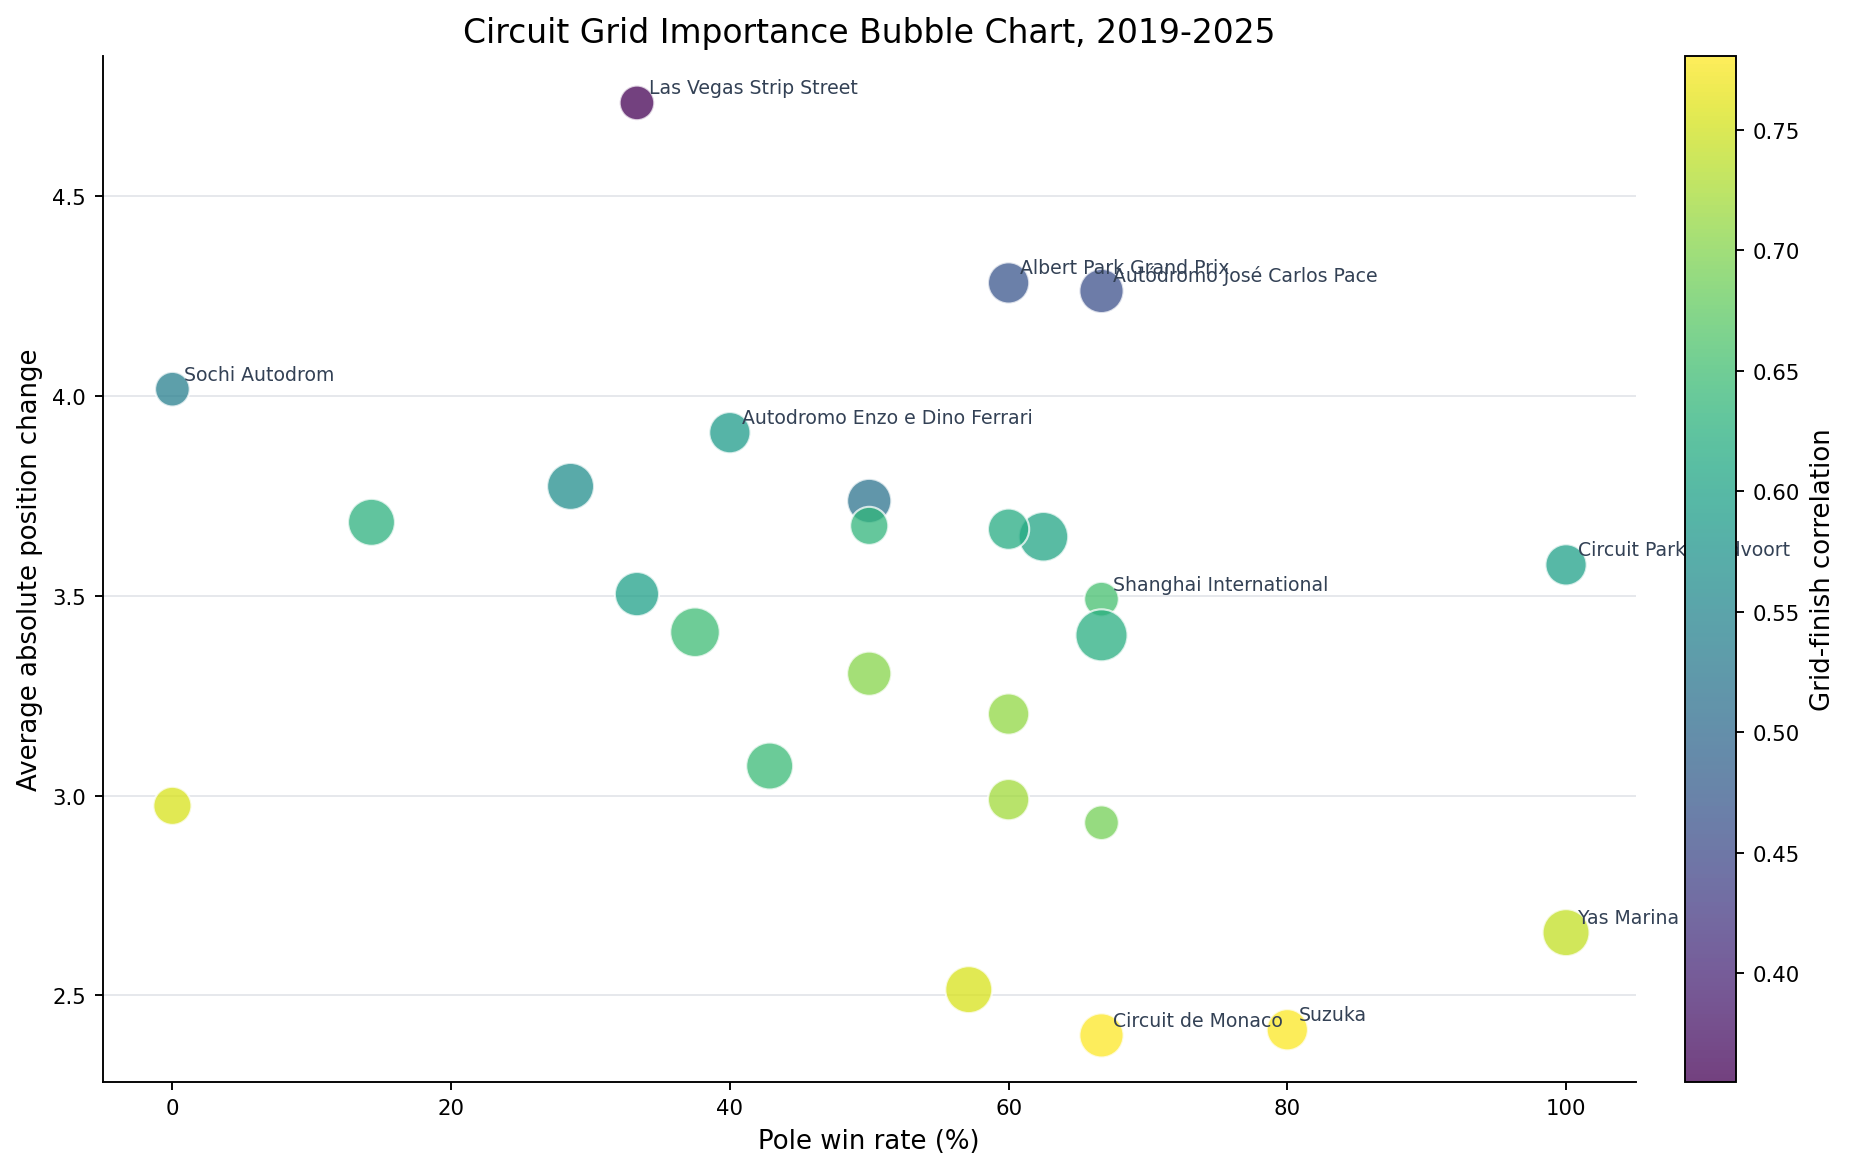
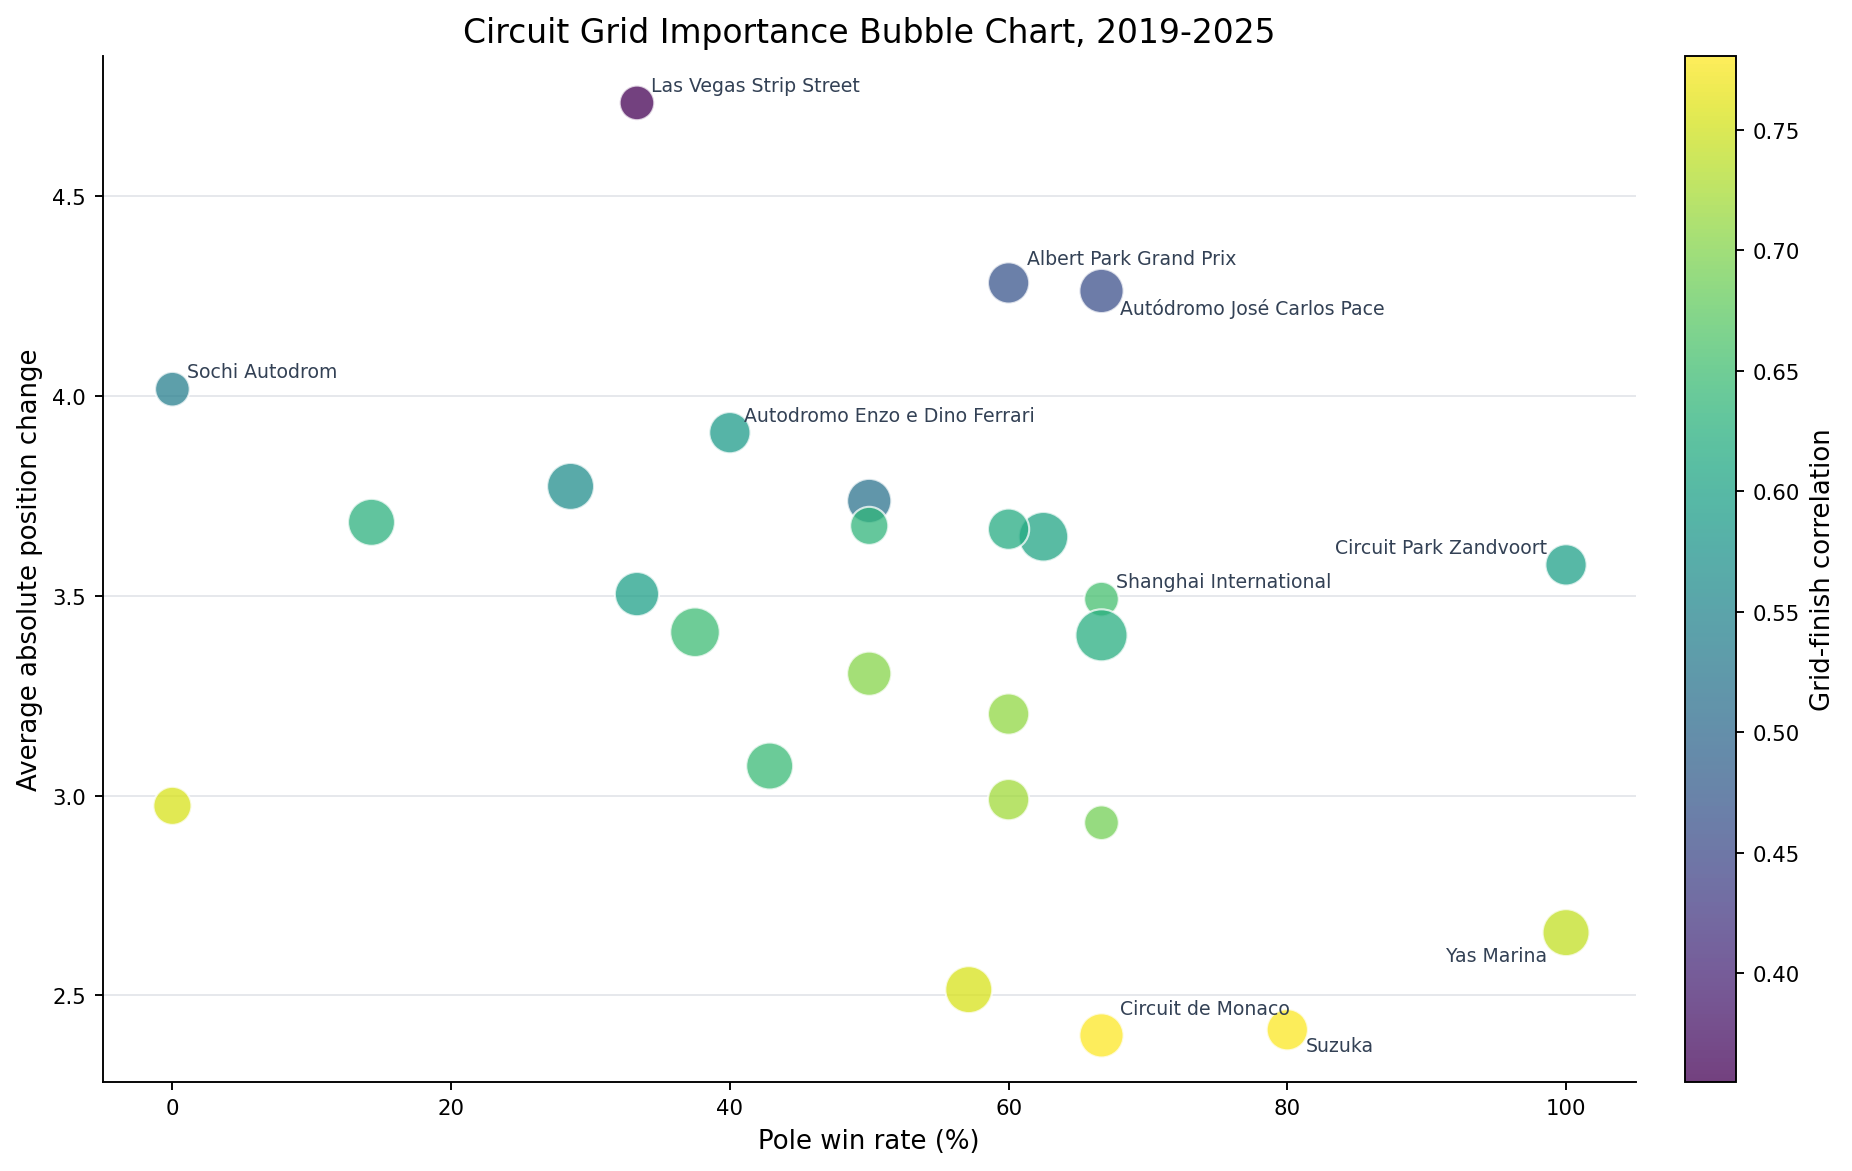
Improve figure label layout

diff --git a/visualize_f1_analysis.py b/visualize_f1_analysis.py
@@ -1328,18 +1328,32 @@ def plot_circuit_grid_importance_bubble(manifest, modern_rows):
 
     labeled = sorted(rows, key=lambda row: row["pole_win_rate"], reverse=True)[:5]
     labeled += sorted(rows, key=lambda row: row["avg_abs_position_change"], reverse=True)[:5]
+    circuit_label_offsets = {
+        "albert_park": (8, 8),
+        "interlagos": (8, -10),
+        "suzuka": (8, -9),
+        "monaco": (8, 9),
+        "yas_marina": (8, -12),
+    }
     seen = set()
     for row in labeled:
         if row["circuit_id"] in seen:
             continue
         seen.add(row["circuit_id"])
+        x_position = row["pole_win_rate"] * 100
+        label_offset = circuit_label_offsets.get(row["circuit_id"], (6, 5))
+        horizontal_alignment = "left"
+        if x_position >= 95:
+            label_offset = (-8, label_offset[1])
+            horizontal_alignment = "right"
         ax.annotate(
             row["circuit_name"].replace(" Circuit", ""),
-            (row["pole_win_rate"] * 100, row["avg_abs_position_change"]),
-            xytext=(5, 4),
+            (x_position, row["avg_abs_position_change"]),
+            xytext=label_offset,
             textcoords="offset points",
             fontsize=8,
             color=COLORS["slate"],
+            ha=horizontal_alignment,
         )
 
     filename = "circuit_grid_importance_bubble_2019_2025.png"
@@ -1429,11 +1443,20 @@ def plot_constructor_efficiency_scatter(manifest, modern_rows):
     colorbar = fig.colorbar(scatter, ax=ax, fraction=0.035, pad=0.03)
     colorbar.set_label("Average points per car")
 
+    constructor_label_offsets = {
+        "Sauber": (6, -8),
+        "Williams": (6, 6),
+        "Toro Rosso": (6, -10),
+        "Aston Martin": (6, 8),
+        "Red Bull": (8, -2),
+        "Mercedes": (8, 5),
+    }
     for row in rows:
+        label = row["constructor_name"].replace(" F1 Team", "")
         ax.annotate(
-            row["constructor_name"].replace(" F1 Team", ""),
+            label,
             (row["avg_grid"], row["avg_finish_position"]),
-            xytext=(5, 4),
+            xytext=constructor_label_offsets.get(label, (6, 5)),
             textcoords="offset points",
             fontsize=8,
             color=COLORS["slate"],

diff --git a/visualize_f1_model_results.py b/visualize_f1_model_results.py
@@ -211,9 +211,12 @@ def save_all_model_heatmap(rows):
     ]
     labels = [model_label(row).replace("\n", " | ") for row in sorted_rows]
 
-    fig, ax = plt.subplots(figsize=(11.5, 8.5))
+    fig, ax = plt.subplots(figsize=(13.2, 8.8))
     image = ax.imshow(values, cmap="YlGnBu", vmin=0, vmax=1)
     ax.set_xticks(range(len(metric_fields)), labels=[label for _, label in metric_fields])
+    ax.tick_params(axis="x", labelrotation=28)
+    for label in ax.get_xticklabels():
+        label.set_ha("right")
     ax.set_yticks(range(len(sorted_rows)), labels=labels)
     ax.set_title("All Podium Models: Metric Heatmap, 2025 Backtest")
     for row_index, row_values in enumerate(values):
@@ -228,7 +231,7 @@ def save_all_model_heatmap(rows):
                 color="#111827" if value < 0.72 else "white",
             )
     fig.colorbar(image, ax=ax, fraction=0.035, pad=0.03)
-    fig.tight_layout()
+    fig.subplots_adjust(left=0.43, right=0.90, bottom=0.16, top=0.92)
     output_path = FIGURE_DIR / "podium_all_model_metric_heatmap.png"
     fig.savefig(output_path, dpi=180)
     plt.close(fig)
